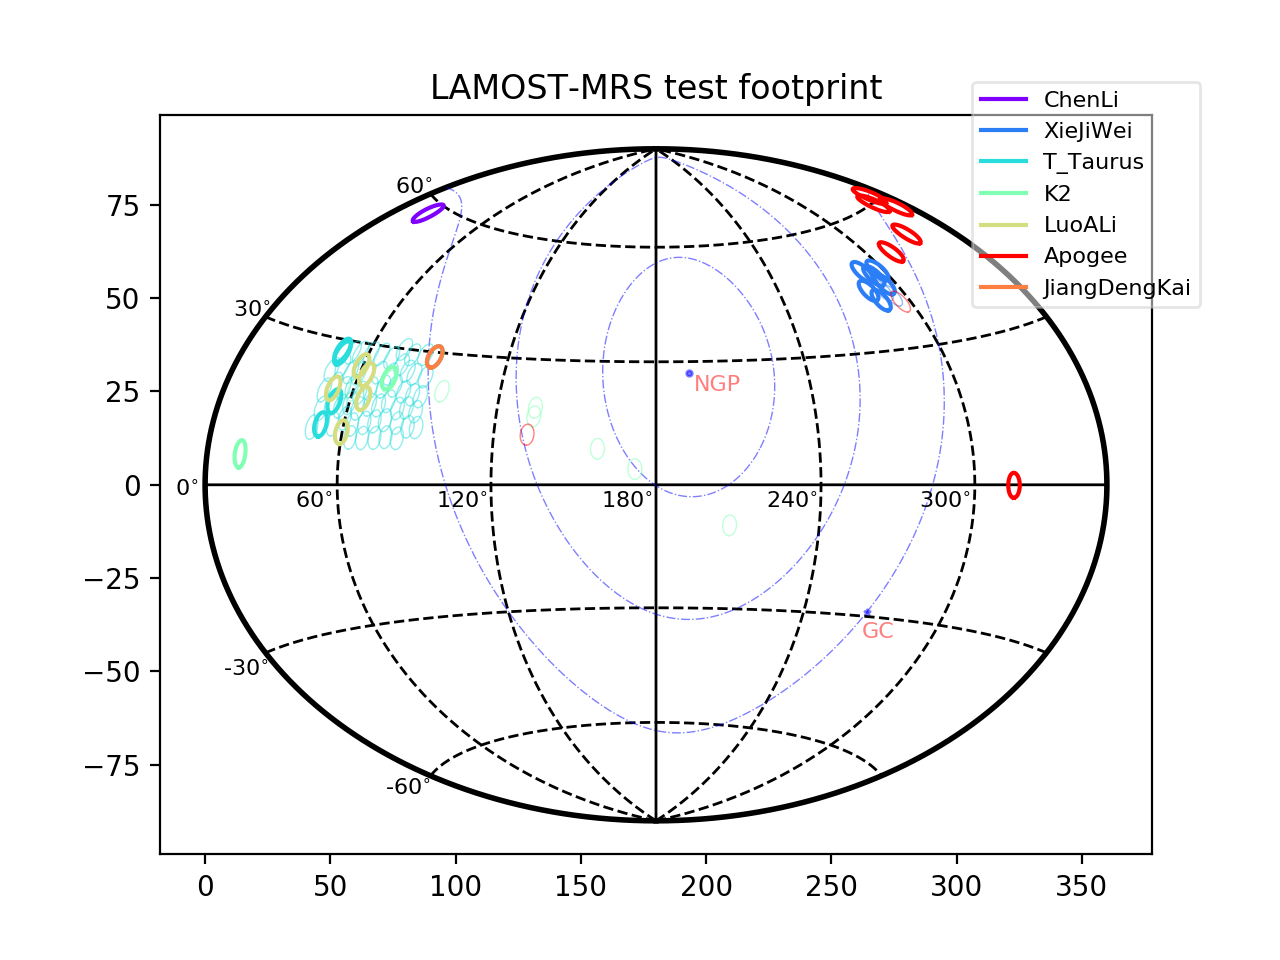
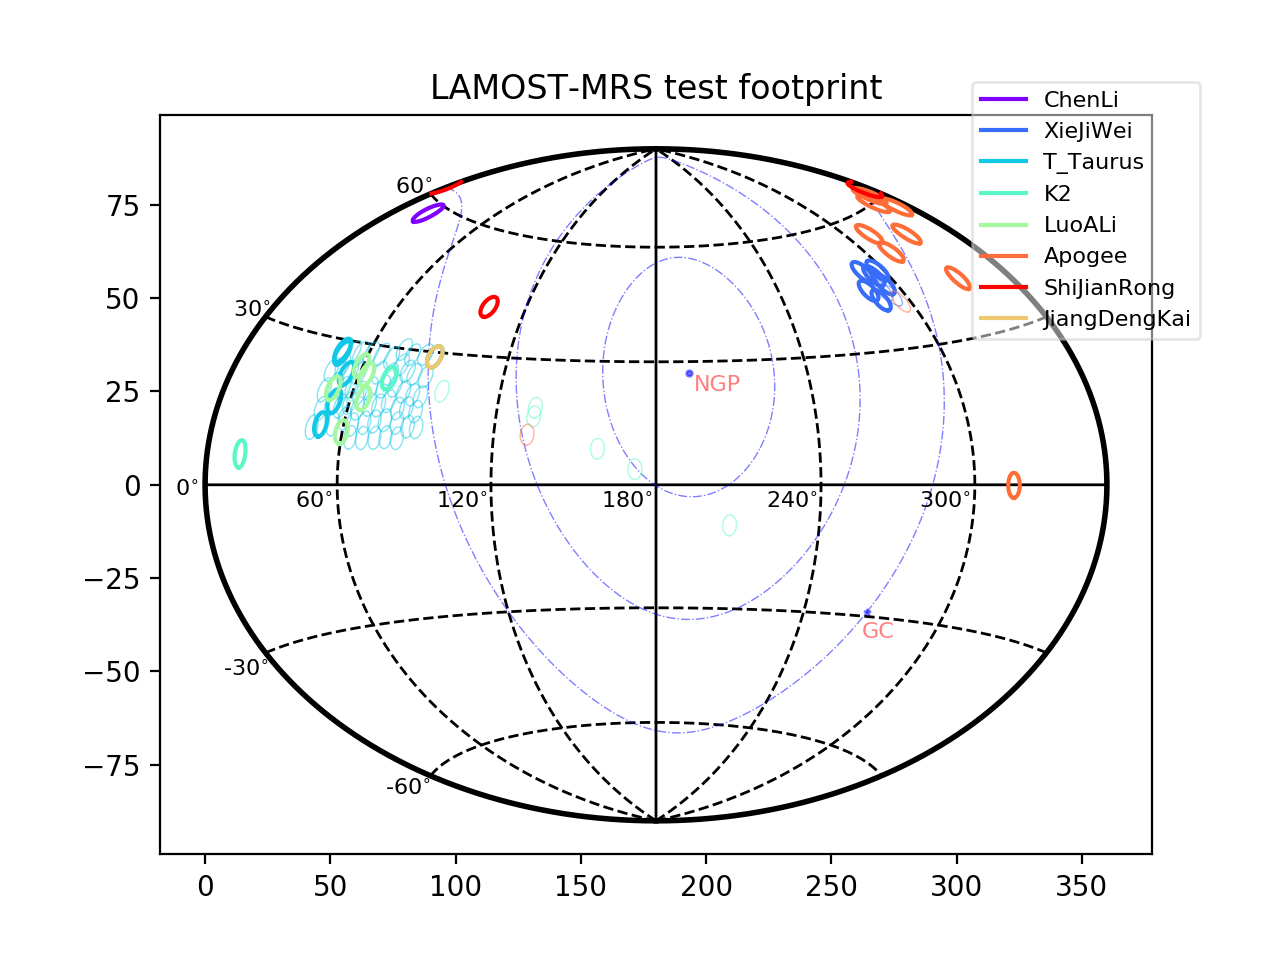
update footprint after obs20171030, update plot_footprint accordingly

diff --git a/footprint/plot_footprint.py b/footprint/plot_footprint.py
@@ -117,6 +117,18 @@ for j in range(len(name2)):
     for i in range(len(cen_ra)):
         x0, y0 = footprint(cen_ra[i], cen_dec[i])
         x, y = aitoff_projection(np.deg2rad(x0), np.deg2rad(y0))
+        # if the field across ra=0, dx > 0 should be found
+        dx = np.array([x0[ii+1] - x0[ii] for ii in range(len(x0)-1)])
+        dx = np.abs(dx)
+        if np.max(x0) - np.min(x0) > 180:
+            idx = (dx > 1)
+            sec = np.nonzero(idx)[0]
+            sec = sec + 1
+            ns  = len(sec)
+        else:
+            sec = np.array([], dtype=int)
+            ns  = 0
+        sec = np.hstack([0, sec, len(x)])
         if obs[i] == 0:
             linestyle = ':'
             linewidth = 0.5
@@ -126,9 +138,21 @@ for j in range(len(name2)):
             linewidth = 1.5
             alpha = 1
         if i == 0:
-            ax.plot(x, y, c=colors[j], ls='-', lw=linewidth, alpha=alpha, label=nx)
+            a = x[sec[0]:sec[1]]
+            b = y[sec[0]:sec[1]]
+            #ax.plot(x, y, c=colors[j], ls='-', lw=linewidth, alpha=alpha, label=nx)
+            ax.plot(a, b, c=colors[j], ls='-', lw=linewidth, alpha=alpha, label=nx)
+            if ns > 0:
+                for ii in np.arange(1,ns+1):
+                    a = x[sec[ii]:sec[ii+1]]
+                    b = y[sec[ii]:sec[ii+1]]
+                    ax.plot(a, b, c=colors[j], ls='-', lw=linewidth, alpha=alpha)
         else:
-            ax.plot(x, y, c=colors[j], ls='-', lw=linewidth, alpha=alpha)
+            #ax.plot(x, y, c=colors[j], ls='-', lw=linewidth, alpha=alpha)
+            for ii in range(ns+1):
+                a = x[sec[ii]:sec[ii+1]]
+                b = y[sec[ii]:sec[ii+1]]
+                ax.plot(a, b, c=colors[j], ls='-', lw=linewidth, alpha=alpha)
 
 # plate "JiangDengKai" overlaps with others:
 nx = name2[k]
